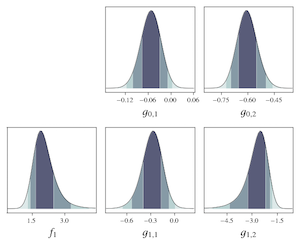
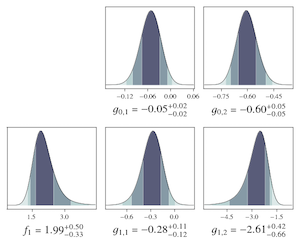
dist: flag to output parameter values

diff --git a/src/dist.py b/src/dist.py
@@ -19,6 +19,7 @@ parser = argparse.ArgumentParser(description='distribution plot from samples')
 parser.add_argument('-a', action='store_true', help='plot anchor points')
 parser.add_argument('-f', action='store_true', help='plot convergence ratios')
 parser.add_argument('-g', action='store_true', help='plot reduced shears')
+parser.add_argument('-x', action='store_true', help='print parameter values')
 parser.add_argument('-b', metavar='BINS', type=int, default=50,
                     help='number of bins')
 parser.add_argument('-s', metavar='SMOOTH', type=int, default=2.5,
@@ -153,6 +154,9 @@ for i, j in zip(range(fimg, nimg), range(0, nrow)):
         
         if args.t:
             ax.axvline(truth[j,k], color='r', lw=1.5, alpha=0.5)
+        
+        if args.x:
+            l += ' = ${:.2f}_{{{:+.2f}}}^{{{:+.2f}}}$'.format(m, s[0], s[1])
         
         ax.set_xlabel(l)
         ax.set_xlim(r)
